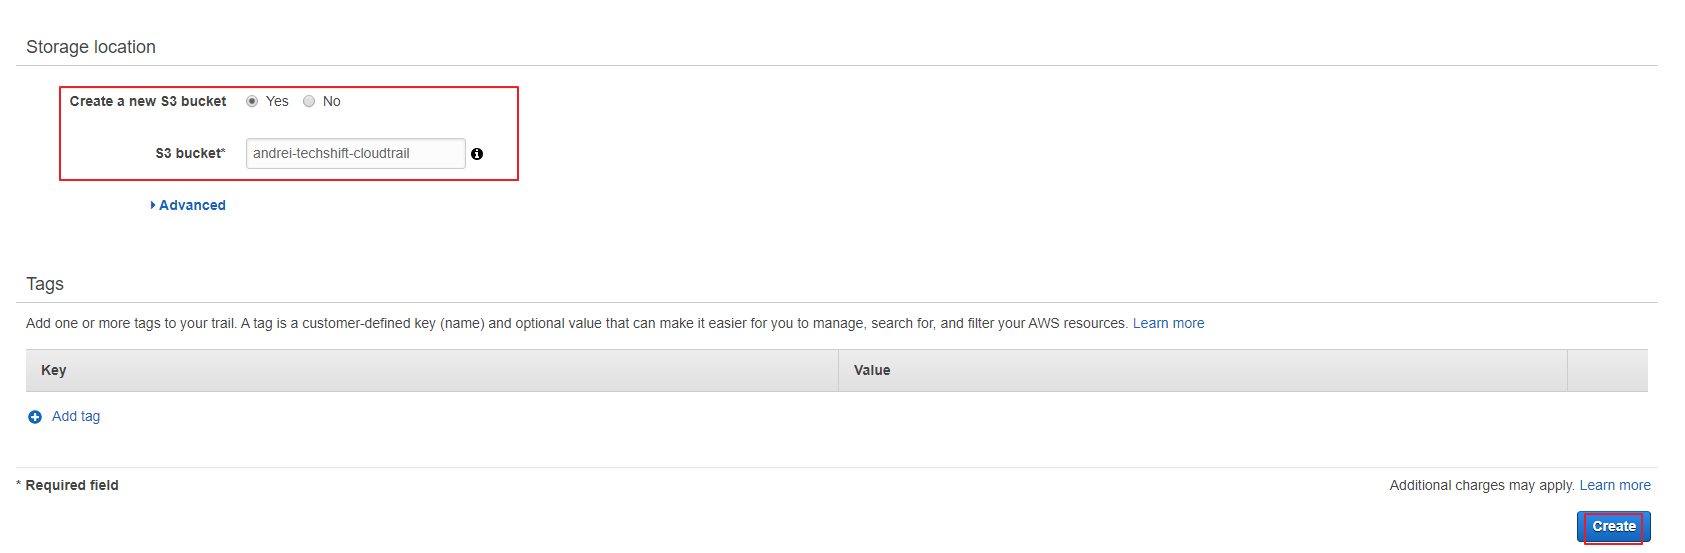
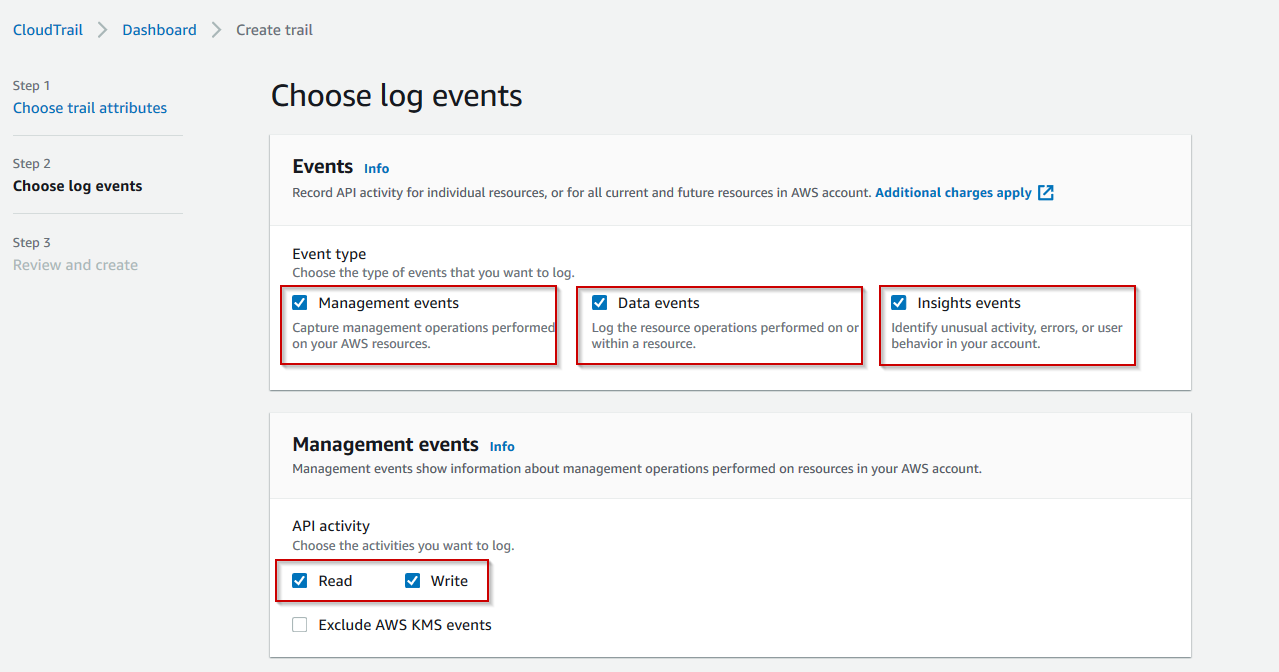
new console cloudtrail

diff --git a/01-CloudTrail-Lab/README.md b/01-CloudTrail-Lab/README.md
@@ -6,23 +6,23 @@ Create CloudTrail
 
 ![images](images/90c96813e2f7a78296fcf01ccb2b3c34.png)
 
-2)  In the creation wizard add a name for the trail *techshift-lab-2019*. Make
-    sure the trail is applied to all regions. Also make sure that all s3 buckets
-    are audited.
+2)  In the creation wizard add a name for the trail *security-workshop*. Select __Create new S3 bucket__ and enable the __Log file SSE-KMS encryption__. Make sure you fill in the "AWS KMS alias". After this is completed click __Next__.
 
 ![images](images/eba0da290a89dde21a74a1d5b6484e99.png)
 
-3)  In the storage location create a new S3 bucket called
-    *[yourname]-techshift-cloudtrail*. The S3 bucket name must be unique. Once
-    done press *Create*.
+3)  Once you are prompted to choose the event types that you want to log make sure that the **Management events, Data events and Insight events** options are selected
 
 ![images](images/cd20ec8003eec7c5196200f24c5f6cab.png)
 
-4)  Once done make sure that the S3 bucket is created.
+4) For the data events leave everything untouched and click on __Next__. I n the summary page just click on __Create Trail__.
 
 ![images](images/955ed0bb3071018e5bbbaa9a6d68f7bb.png)
 
-Access the S3 bucket and make sure that the logs are being created.
+5) Once everything is completed you will see the Trail created in the console.
+
+![images](images/console)
+
+In the following labs we will do an analysis on this trail using AWS Athena.
 
 
 Proceed to the [next lab (GuardDuty)](../02-GuardDuty-Lab/README.md)

diff --git a/00-Prerequisites-Lab/README.md b/00-Prerequisites-Lab/README.md
@@ -35,7 +35,7 @@ connection.
 
 ![images](images/cloudformation-upload-2.png)
 
-4) In the the form add a **Stack Name**, select the newly created __key__. The VPC CIDR, RDS Password and Username are already prepopulated for you. Once everything is filled in press **Next**
+4) In the the form add a **Stack Name**, select the newly created __key__. The VPC CIDR, RDS Password and Username are already pre-populated for you. Once everything is filled in press **Next**
 
 ![images](images/cloudformation-upload-3.png)
 
@@ -43,11 +43,11 @@ connection.
 
 ![images](images/cloudformation-upload-4.png)
 
-6) In the summary page click on **Create Stack**. The stack creation will take 12-15 minutes.
+6) In the summary page click on **Create Stack**. The stack creation will take 10-15 minutes.
 
 ![images](images/cloudformation-upload-5.png)
 
-**:heavy_exclamation_mark: It will take around 10-15 minutes to have the entire template deployed**
+**:heavy_exclamation_mark: It will take around 10-15 minutes to have the entire template deployed so please be patient**
 
 7) Once the stack is deployed successfully click on the **Output** tab and take note the values listed there. You can copy them into a scratch pad.
 
